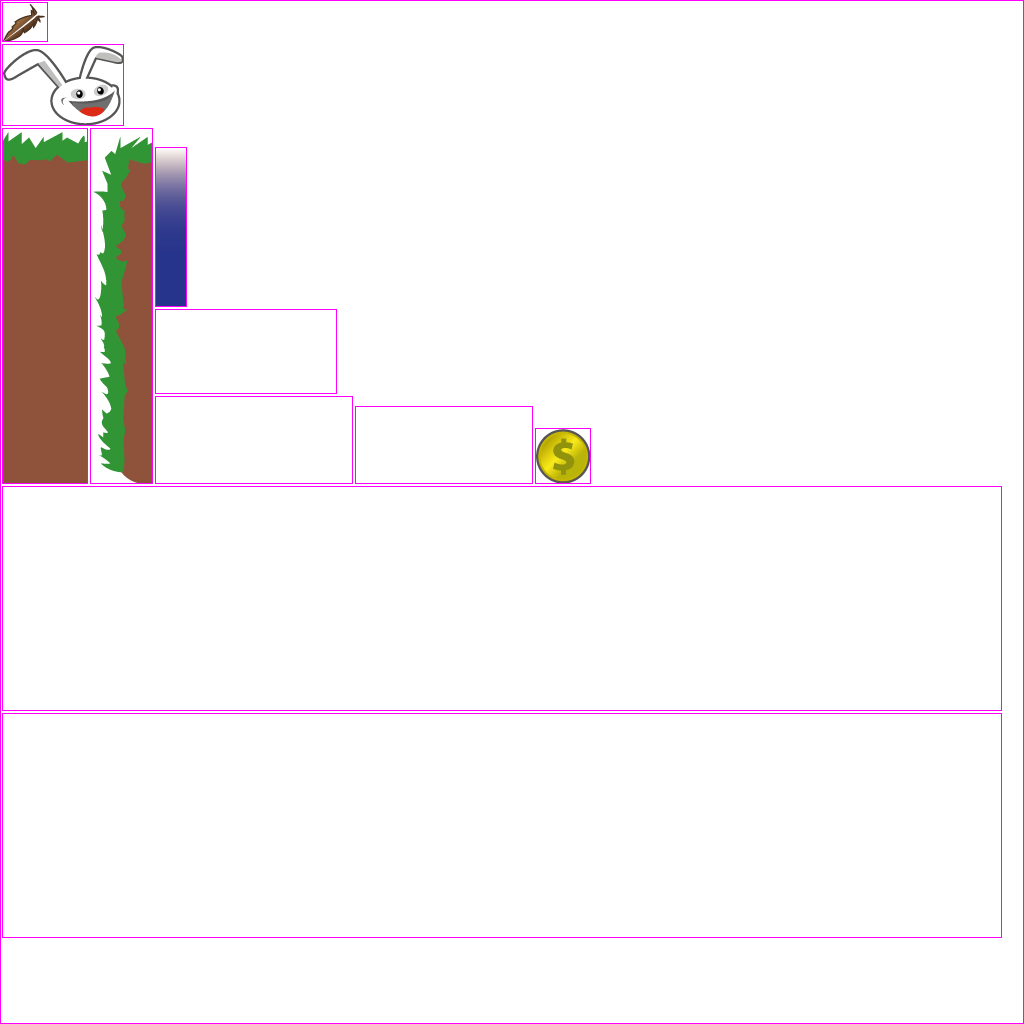
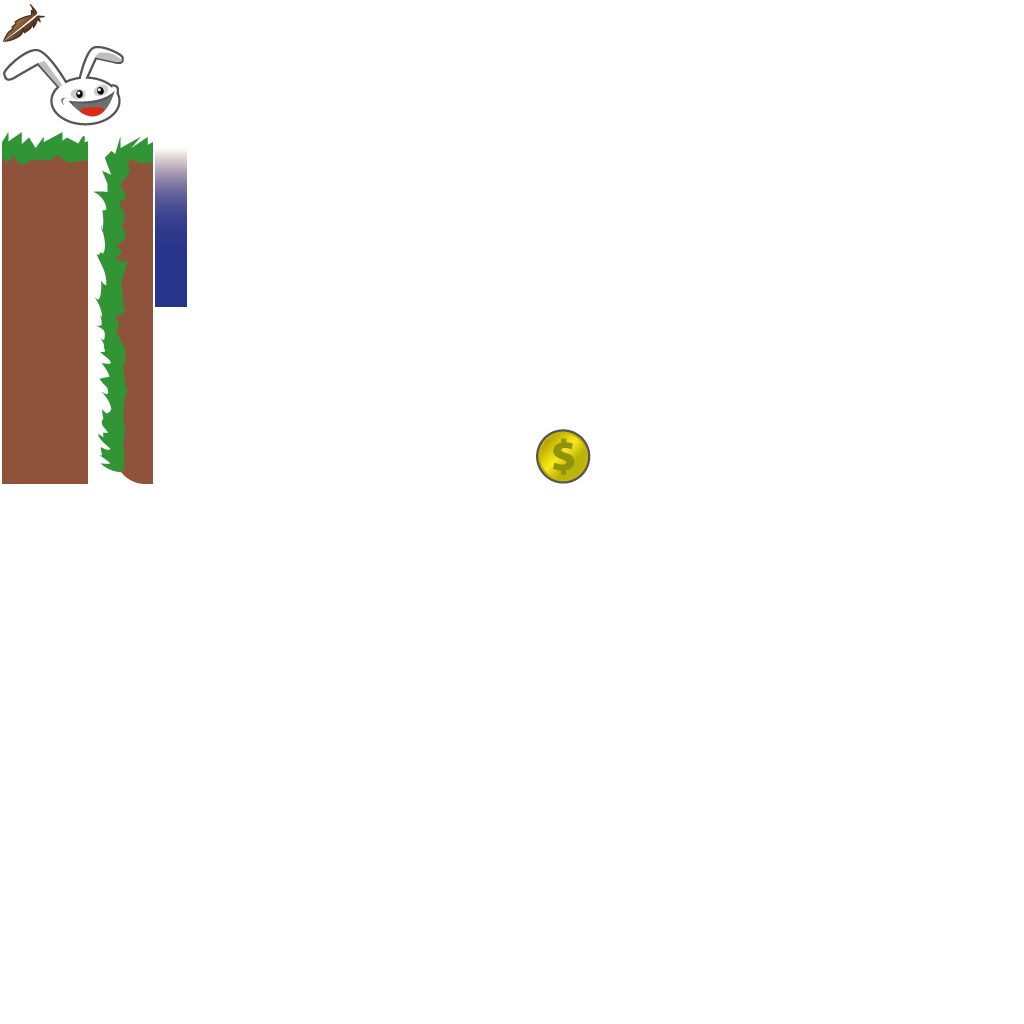
5.10. Karte wird gezeichnet

Changed region(s): [[0.0, 0.0, 0.0312, 0.0625], [0.0, 0.6875, 0.0312, 0.7188], [0.0, 0.4688, 0.0312, 0.5]]

diff --git a/core/src/main/java/de/wiedel/cb/game/WorldController.java b/core/src/main/java/de/wiedel/cb/game/WorldController.java
@@ -10,19 +10,21 @@ import com.badlogic.gdx.graphics.g2d.Sprite;
 import com.badlogic.gdx.graphics.g2d.TextureRegion;
 import com.badlogic.gdx.math.MathUtils;
 import com.badlogic.gdx.utils.Array;
+import com.sun.org.apache.bcel.internal.Const;
 import de.wiedel.cb.utils.CameraHelper;
+import de.wiedel.cb.utils.Constants;
 
 public class WorldController extends InputAdapter {
 
     /** eindeutiger Bezeichner der Klasse */
     public static final String TAG = WorldController.class.getSimpleName();
 
+    public Level level;
+    public int lives;
+    public int score;
+
     /** Debug Kamera */
     public CameraHelper cameraHelper;
-
-    /** Code zu Testzwecken (2 Members) */
-    public Sprite[] testSprites;
-    public int selectedSprite;
 
     /** Konstruktor */
     public WorldController(){
@@ -33,13 +35,18 @@ public class WorldController extends InputAdapter {
     private void init(){
         Gdx.input.setInputProcessor(this);
         cameraHelper = new CameraHelper();
-        initTestObjects();
+        lives = Constants.LIVES_START;
+        initLevel();
+    }
+
+    private void initLevel(){
+        score = 0;
+        level = new Level(Constants.LEVEL_01);
     }
 
     /** Spielelogik */
     public void update(float delta){
         handleDebugInput(delta);
-        updateTestObjects(delta);
         cameraHelper.update(delta);
     }
 
@@ -51,42 +58,9 @@ public class WorldController extends InputAdapter {
             init();
             Gdx.app.debug(TAG, "Game world zurückgesetzt!");
         }
-        // nächstes Sprite auswählen
-        else if (keycode == Input.Keys.SPACE) {
-            selectedSprite = (selectedSprite + 1) % testSprites.length;
-            // Kamera updaten und dem aktuellen Sprite folgen
-            if (cameraHelper.hasTarget()){
-                cameraHelper.setTarget(testSprites[selectedSprite]);
-            }
-            Gdx.app.debug(TAG, "Sprite #" + selectedSprite + " ausgewählt!");
-        } else if (keycode == Input.Keys.ENTER) {
-            cameraHelper.setTarget(cameraHelper.hasTarget() ? null : testSprites[selectedSprite]);
-            Gdx.app.debug(TAG, "Kameraverfolgung aktiviert: " + cameraHelper.hasTarget());
-        }
         return false;
     }
 
-    /** Code zu Testzwecken */
-    private void initTestObjects(){
-        // erstellt ein Array mit Testobjekten
-        testSprites = new Sprite[5];
-
-        Array<TextureRegion> regions = new Array<>();
-        regions.add(Assets.INSTANCE.bunny.head);
-        regions.add(Assets.INSTANCE.feather.feather);
-        regions.add(Assets.INSTANCE.goldCoin.goldCoin);
-
-        for (int i = 0; i < testSprites.length; i++){
-            Sprite sprite = new Sprite(regions.random());
-            sprite.setSize(1, 1);
-            sprite.setOrigin(sprite.getWidth() / 2f, sprite.getHeight() / 2f);
-            float randomX = MathUtils.random(-2f, 2f);
-            float randomY = MathUtils.random(-2f, 2f);
-            sprite.setPosition(randomX, randomY);
-            testSprites[i] = sprite;
-        }
-        selectedSprite = 0;
-    }
     private Pixmap createProceduralPixmap(int width, int height){
         Pixmap pixmap = new Pixmap(width, height, Pixmap.Format.RGB888);
         pixmap.setColor(1, 0, 0, 0.5f);
@@ -98,28 +72,10 @@ public class WorldController extends InputAdapter {
         pixmap.drawRectangle(0, 0, width, height);
         return pixmap;
     }
-    private void updateTestObjects(float delta){
-        float rotation = testSprites[selectedSprite].getRotation();
-        rotation += 90 * delta;
-        rotation %= 360;
-        testSprites[selectedSprite].setRotation(rotation);
-    }
+
     private void handleDebugInput(float delta){
         if (Gdx.app.getType() != Application.ApplicationType.Desktop){
             return;
-        }
-        float spriteMoveSpped = 5 * delta;
-        if (Gdx.input.isKeyPressed(Input.Keys.A)){
-            moveSelectedSprite(-spriteMoveSpped, 0);
-        }
-        if (Gdx.input.isKeyPressed(Input.Keys.D)){
-            moveSelectedSprite(spriteMoveSpped, 0);
-        }
-        if (Gdx.input.isKeyPressed(Input.Keys.W)){
-            moveSelectedSprite(0, spriteMoveSpped);
-        }
-        if (Gdx.input.isKeyPressed(Input.Keys.S)){
-            moveSelectedSprite(0, -spriteMoveSpped);
         }
 
         // Kamera Kontrolle (bewegen)
@@ -164,8 +120,5 @@ public class WorldController extends InputAdapter {
         x += cameraHelper.getPosition().x;
         y += cameraHelper.getPosition().y;
         cameraHelper.setPosition(x, y);
-    }
-    private void moveSelectedSprite(float x, float y){
-        testSprites[selectedSprite].translate(x, y);
     }
 }

diff --git a/core/src/main/java/de/wiedel/cb/game/WorldRenderer.java b/core/src/main/java/de/wiedel/cb/game/WorldRenderer.java
@@ -34,7 +34,7 @@ public class WorldRenderer implements Disposable {
 
     /** Zeichenmethode */
     public void render(){
-        renderTestObjects();
+        renderWorld(batch);
     }
 
     /** was geschieht, wenn die Fenstergröße verändert wird */
@@ -43,20 +43,17 @@ public class WorldRenderer implements Disposable {
         camera.update();
     }
 
+    private void renderWorld(SpriteBatch batch){
+        worldController.cameraHelper.applyTo(camera);
+        batch.setProjectionMatrix(camera.combined);
+        batch.begin();
+        worldController.level.render(batch);
+        batch.end();
+    }
+
     /** Freigabe von Ressourcen */
     @Override
     public void dispose() {
         batch.dispose();
-    }
-
-    /** Code zu Testzwecken */
-    private void renderTestObjects(){
-        worldController.cameraHelper.applyTo(camera);
-        batch.setProjectionMatrix(camera.combined);
-        batch.begin();
-        for (Sprite sprite : worldController.testSprites){
-            sprite.draw(batch);
-        }
-        batch.end();
     }
 }

diff --git a/core/src/main/java/de/wiedel/cb/utils/CameraHelper.java b/core/src/main/java/de/wiedel/cb/utils/CameraHelper.java
@@ -1,9 +1,9 @@
 package de.wiedel.cb.utils;
 
 import com.badlogic.gdx.graphics.OrthographicCamera;
-import com.badlogic.gdx.graphics.g2d.Sprite;
 import com.badlogic.gdx.math.MathUtils;
 import com.badlogic.gdx.math.Vector2;
+import de.wiedel.cb.game.objects.AbstractGameObject;
 
 /** Hilfsklasse für Kamerafunktionen */
 public class CameraHelper {
@@ -18,7 +18,7 @@ public class CameraHelper {
     private Vector2 position;
     private float zoom;
     /** Das Spielobjekt, dem die Kamera folgen soll */
-    private Sprite target;
+    private AbstractGameObject target;
 
     public CameraHelper() {
         position = new Vector2();
@@ -31,8 +31,8 @@ public class CameraHelper {
             return;
         }
 
-        position.x = target.getX() + target.getOriginX();
-        position.y = target.getY() + target.getOriginY();
+        position.x = target.position.x + target.origin.x;
+        position.y = target.position.y + target.origin.y;
     }
 
     /** getter und setter */
@@ -56,11 +56,11 @@ public class CameraHelper {
         return zoom;
     }
 
-    public void setTarget(Sprite target) {
+    public void setTarget(AbstractGameObject target) {
         this.target = target;
     }
 
-    public Sprite getTarget() {
+    public AbstractGameObject getTarget() {
         return target;
     }
 
@@ -68,7 +68,7 @@ public class CameraHelper {
         return target != null;
     }
 
-    public boolean hasTarget(Sprite target){
+    public boolean hasTarget(AbstractGameObject target){
         return hasTarget() && this.target.equals(target);
     }
 

diff --git a/core/src/main/java/de/wiedel/cb/game/objects/AbstractGameObject.java b/core/src/main/java/de/wiedel/cb/game/objects/AbstractGameObject.java
@@ -7,9 +7,9 @@ public abstract class AbstractGameObject {
 
     public Vector2 position;
     public Vector2 dimension;
-    protected Vector2 origin;
-    protected Vector2 scale;
-    protected float rotation;
+    public Vector2 origin;
+    public Vector2 scale;
+    public float rotation;
 
     public AbstractGameObject(){
         position = new Vector2();

diff --git a/core/src/main/java/de/wiedel/cb/game/objects/Rock.java b/core/src/main/java/de/wiedel/cb/game/objects/Rock.java
@@ -54,7 +54,7 @@ public class Rock extends AbstractGameObject {
 
         // Mitte zeichnen
         reg = regMiddle;
-        relX -= 0;
+        relX = 0;
 
         for (int i = 0; i < length; i++){
             batch.draw(reg.getTexture(),

diff --git a/lwjgl3/src/main/java/de/wiedel/cb/lwjgl3/Lwjgl3Launcher.java b/lwjgl3/src/main/java/de/wiedel/cb/lwjgl3/Lwjgl3Launcher.java
@@ -11,7 +11,7 @@ import de.wiedel.cb.utils.Constants;
 public class Lwjgl3Launcher {
 
     private static boolean rebuildAtlas = true;
-    public static boolean drawDebugOutline = true;
+    public static boolean drawDebugOutline = false;
 
     public static void main(String[] args) {
 

diff --git a/core/src/main/java/de/wiedel/cb/game/objects/Mountains.java b/core/src/main/java/de/wiedel/cb/game/objects/Mountains.java
@@ -40,6 +40,7 @@ public class Mountains extends AbstractGameObject {
         mountainLength += MathUtils.ceil(0.5f + offsetX);
         for (int i = 0; i < mountainLength; i++){
             // MountainLeft
+            reg =regMountainLeft;
             batch.draw(reg.getTexture(),
                 origin.x + xRel, position.y + origin.y + yRel,
                 origin.x, origin.y,